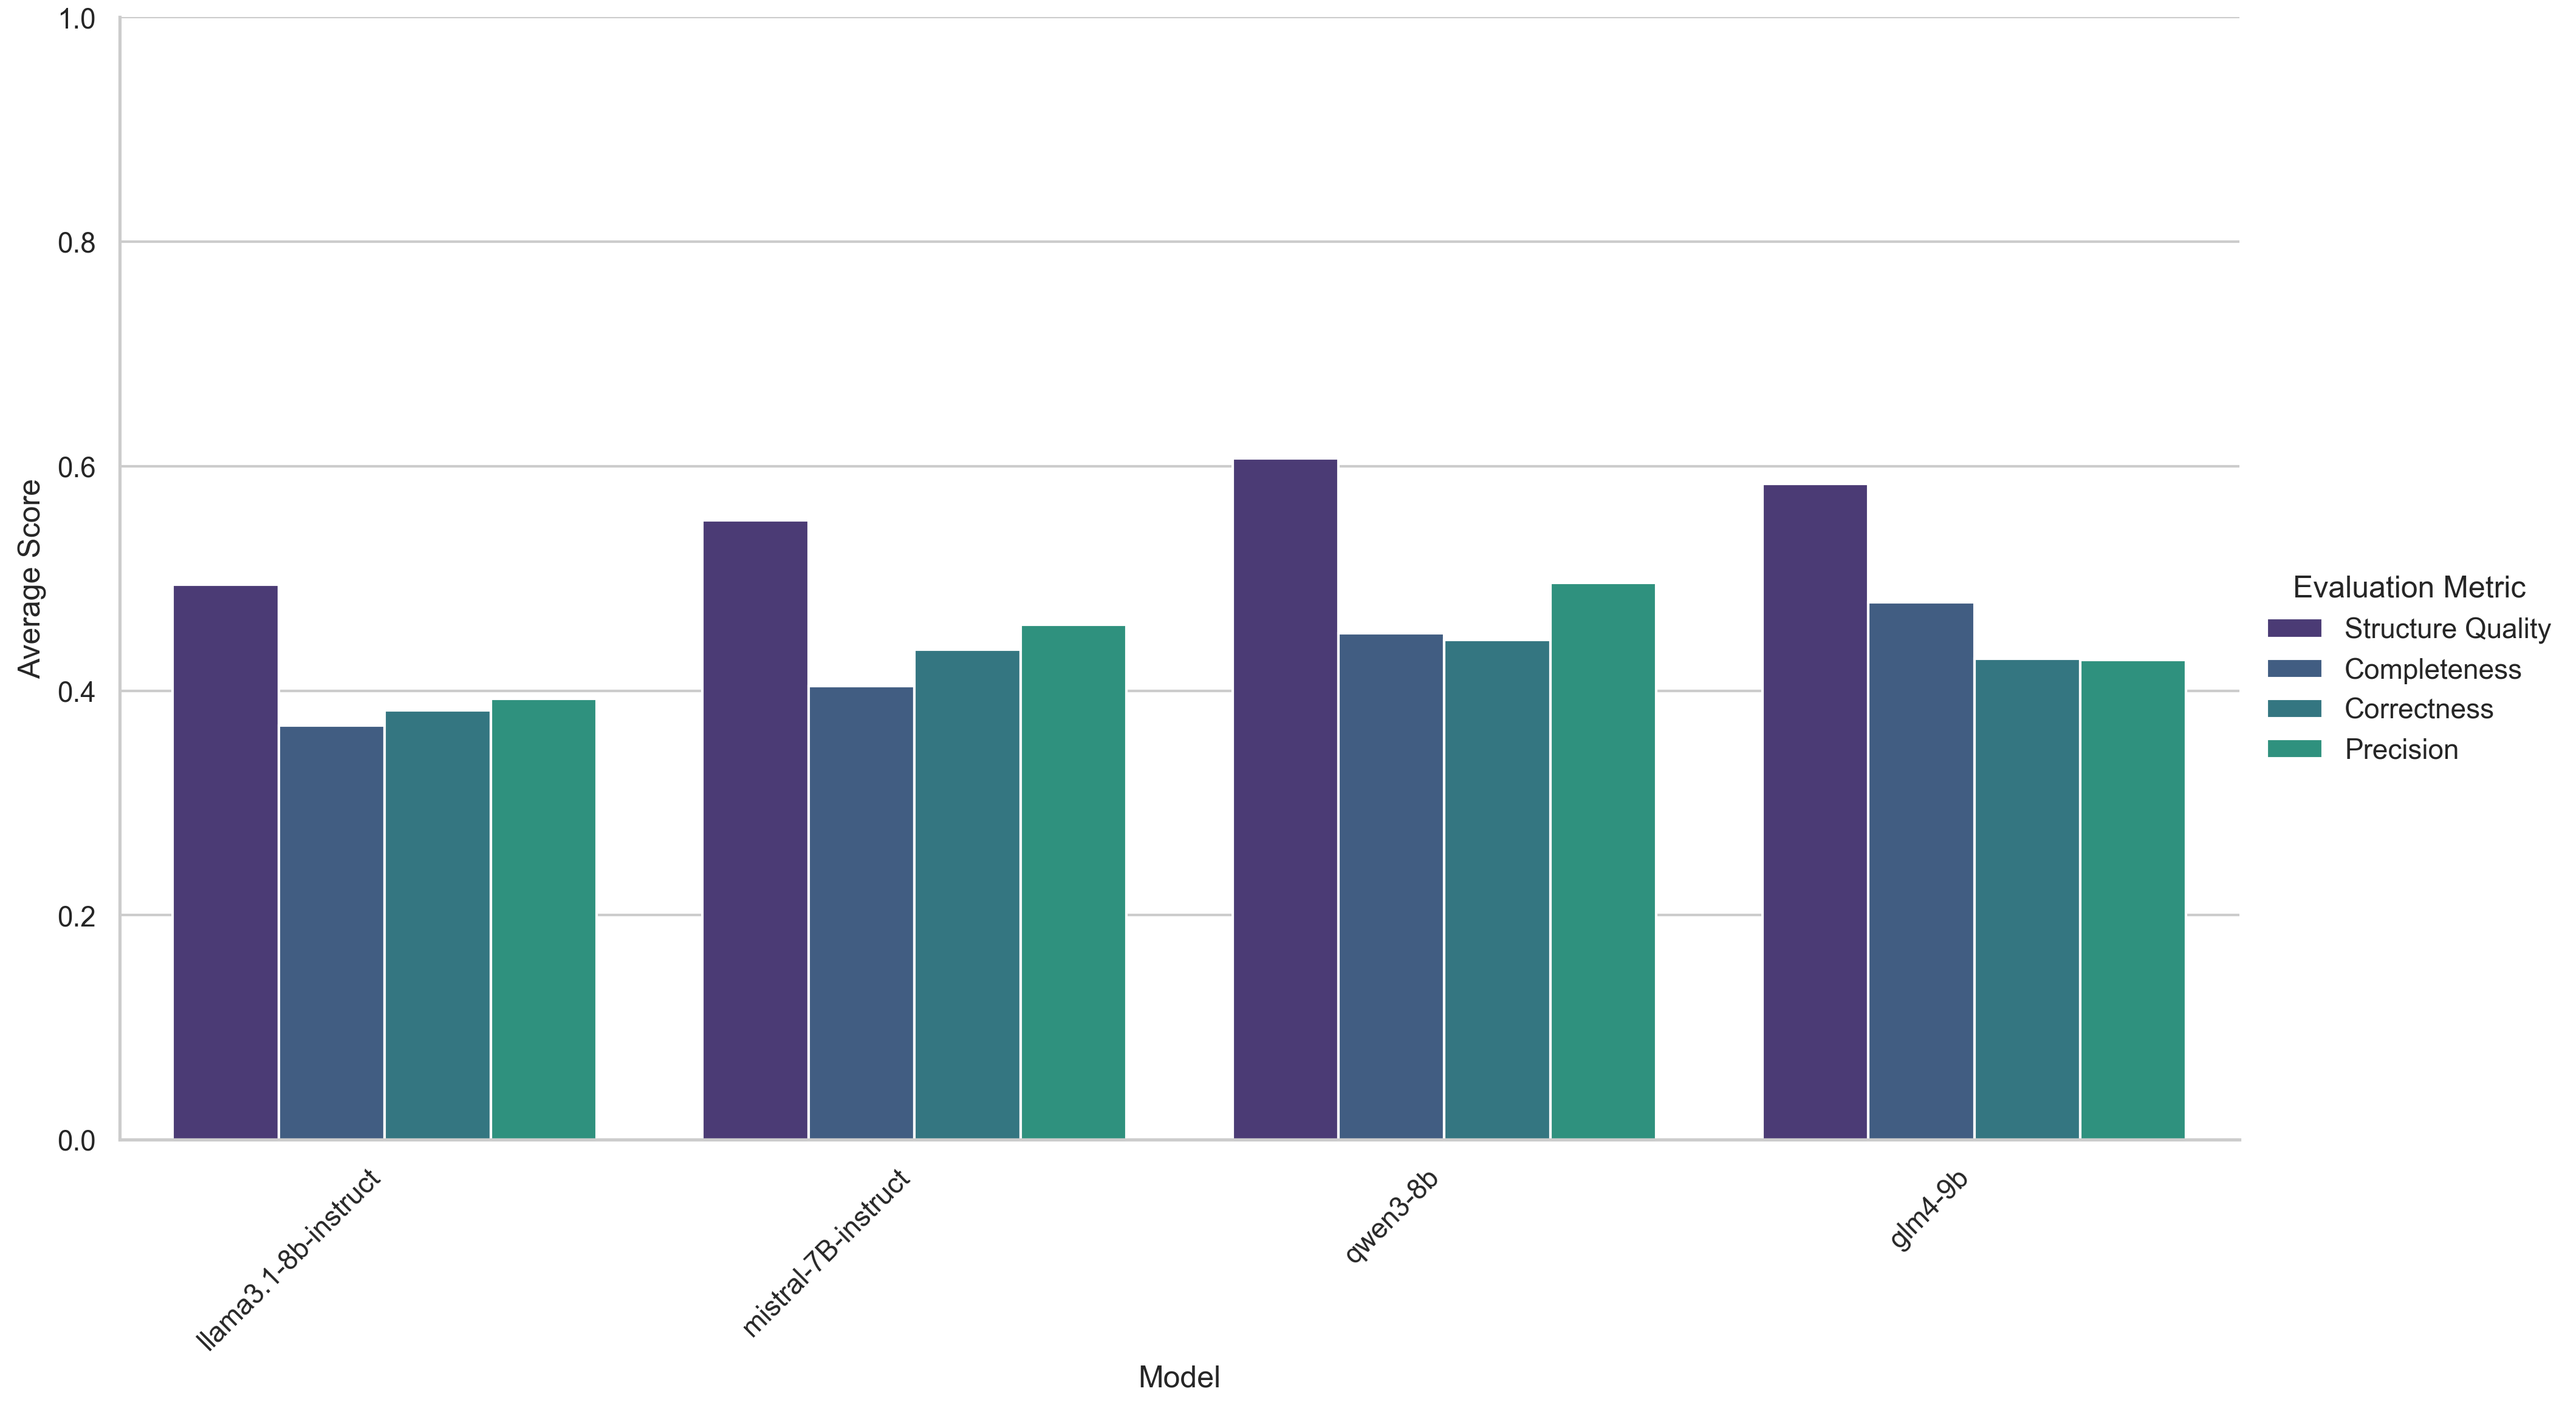
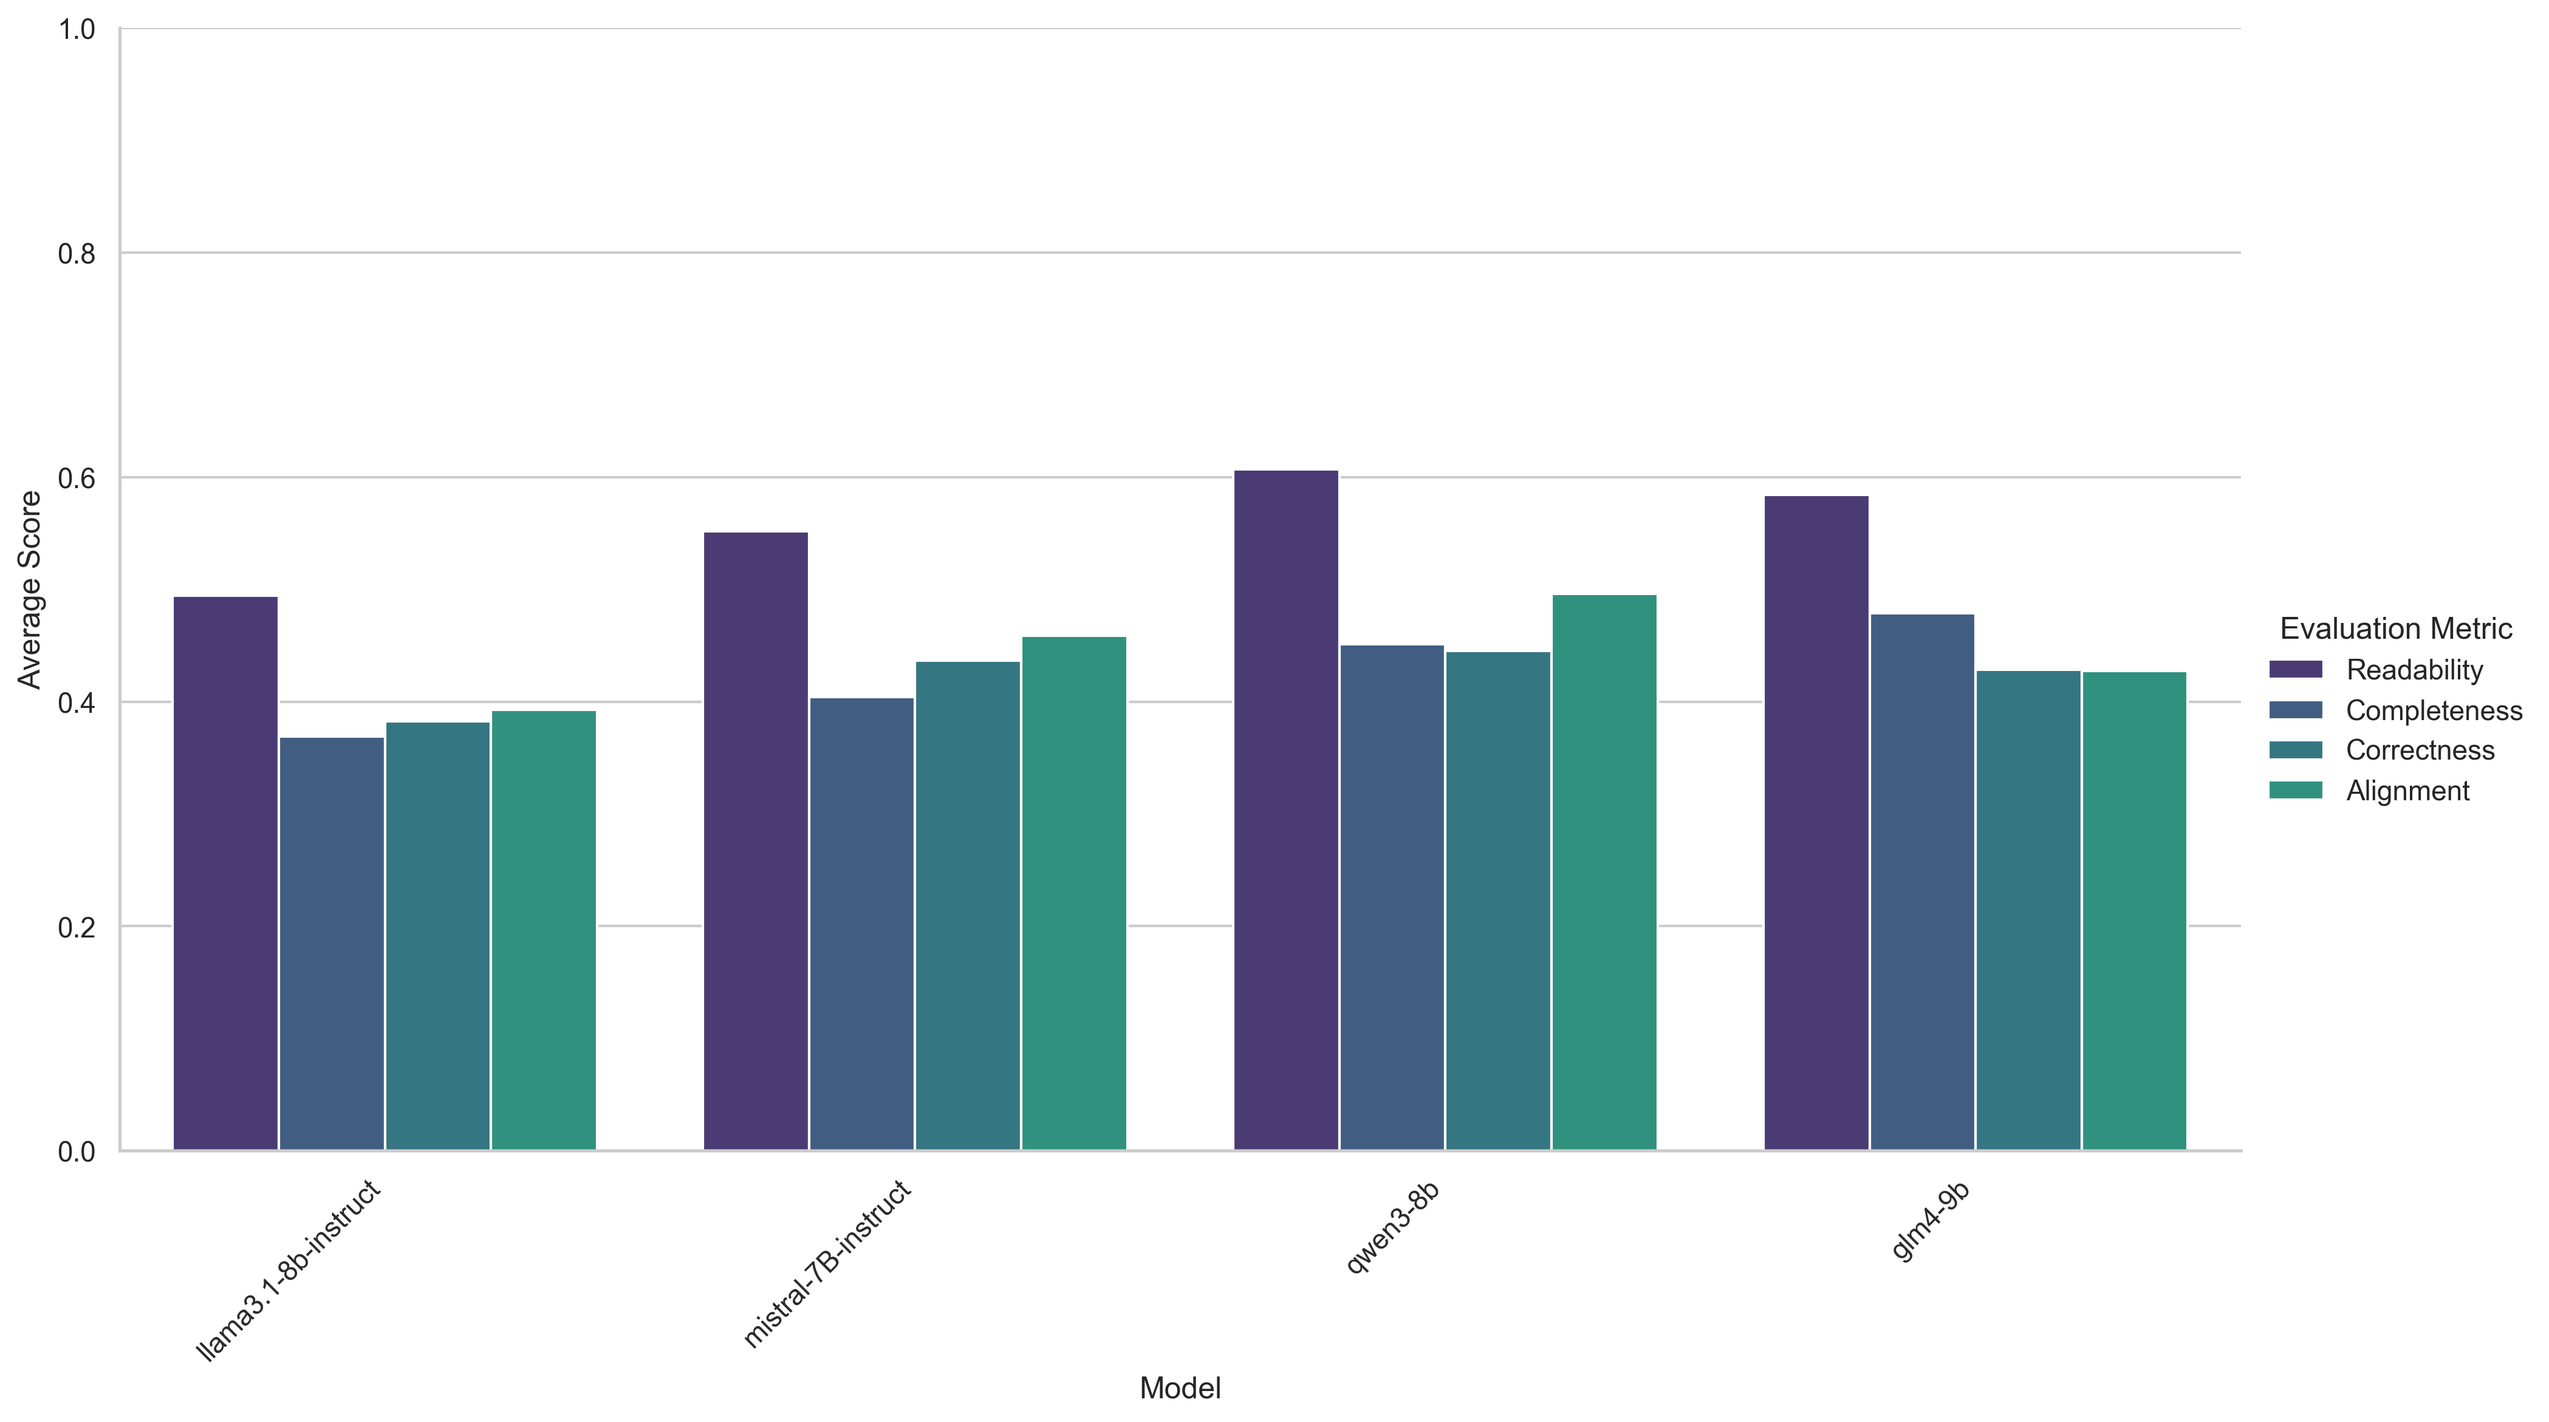
Add evaluation

diff --git a/conception.tex b/conception.tex
@@ -64,21 +64,19 @@ To address this challenge, this thesis adopts an automated and dynamic evaluatio
 ``G-EVAL is a prompt-based evaluator with three main components: 1) a prompt that contains the definition of the evaluation task and the desired evaluation criteria, 2) a chain-of-thoughts (CoT) that is a set of intermediate instructions generated by the LLM describing the detailed evaluation steps, and
 3) a scoring function that calls LLM and calculates the score based on the probabilities of the return tokens.'' \cite{G-eval}
 
-\subsubsection{Metrics}
+\subsubsection{Metrics} \label{metrics}
 The LLM-as-a-judge evaluation was guided by four key metrics, adapted from the framework proposed by \cite{evaluation-mertric}. Each metric was specifically interpreted for the task of requirements extraction as follows:
 \begin{description}
-\item[Correctness] `` This metric evaluates the accuracy of information presented in the target note. It identifies and penalizes hallucinations, misinterpretations, incorrect facts, and other inaccuracies in the target note.'' \cite{evaluation-mertric}.
- \textbf{In the context of this thesis, this messeaure is used to evaluate whether the extracted job requirements are accurate and actually present in the input text.}
+\item[Correctness] \hfil \\ ``This metric evaluates the accuracy of information presented in the target note. It identifies and penalizes hallucinations, misinterpretations, incorrect facts, and other inaccuracies in the target note.'' \cite{evaluation-mertric}. In the context of this thesis, this messeaure is used to evaluate whether the extracted job requirements are accurate and actually present in the input text.
 
-\item[Completeness] ``This aspect measures the extent to which relevant information from the ground truth note is covered in the target note.'' \cite{evaluation-mertric}.
- \textbf{For our purposes this metric is used to evaluate whether all mandatory job requirements from the input text were extracted. }
+\item[Completeness] \hfil \\ ``This aspect measures the extent to which relevant information from the ground truth note is covered in the target note.'' \cite{evaluation-mertric}.
+For our purposes this metric is used to evaluate whether all mandatory job requirements from the input text were extracted.
 
-\item[Alignment] This criterion assesses how well the information in the target note aligns with that in the ground truth note \cite{evaluation-mertric}.\textbf{Applied to this task, alignment evaluate whether the model correctly avoided extracting 'nice-to-have', 'preferred', or 'bonus' requirements.}
+\item[Alignment] \hfil \\``This criterion assesses how well the information in the target note aligns with that in the ground truth note'' \cite{evaluation-mertric}.Applied to this task, alignment evaluate whether the model correctly avoided extracting 'nice-to-have', 'preferred', or 'bonus' requirements.
 
-\item[Readability] This metric grades the target note on professional writing quality. It is penalized by awkward sentence flow, grammatical errors, inappropriate language, and spelling mistakes \cite{evaluation-mertric}
-\textbf{Here, this metric is adapted to assess whether the extracted requirements are properly categorized as given into skills, experiences, and qualifications, and whether the output is well-structured e.g does have any syntax error, which is handled in the code and will be explained deeper in implementation section.}
+\item[Readability] \hfil \\``This metric grades the target note on professional writing quality. It is penalized by awkward sentence flow, grammatical errors, inappropriate language, and spelling mistakes '' \cite{evaluation-mertric}
+Here, this metric is adapted to assess whether the extracted requirements are properly categorized as given into skills, experiences, and qualifications, and whether the output is well-structured e.g does have any syntax error, which is handled in the code and will be explained deeper in implementation section.
 \end{description}
-
 
 \section{Embedding and Similarity Search}
 Subsequent to the extraction and structuring of job requirements,the system proceeds to the second stage, which addresses the objective of dynamic job matching. To accomplish this, the structured job data and user query are encoded into vector representations. Based on the findings of Kurek et al.\cite{kurek2024},the all-MiniLM-L6-v2 \cite{sentence-bert} sentence transformer model was selected for this task due to its strong zero-shot retrieval performance in job matching. This process is designed to identify the top 10 most relevant job vacancies based on semantic similarity, thereby providing a more accurate matching system than title-based filtering.

diff --git a/evaluation.tex b/evaluation.tex
@@ -1,6 +1,9 @@
 \chapter{Evaluation}
 
-% Example figure placeholder for evaluation results
+\section{Model Performance Comparison}
+
+In this section, we evaluate the performance of the different models based on three key metrics: overall model ranking, passed rates, and average scores. The following figures illustrate the comparative performance of the models in each of these areas.
+
 \begin{figure}[h]
     \centering
     \includegraphics[width=0.8\textwidth]{images/overall_model_ranking}
@@ -8,12 +11,8 @@
     \label{fig:overall_model_ranking}
 \end{figure}
 
-\begin{figure}[h]
-    \centering
-    \includegraphics[width=0.8\textwidth]{images/passed_rates_comparison}
-    \caption{Passed rates comparison}
-    \label{fig:passed_rates_comparison}
-\end{figure}
+Figure \ref{fig:overall_model_ranking} presents the overall ranking of the models. This ranking is a overal score derived from multiple metrics as discussed before see \Ref{metrics}. As can be seen, Qwen3-8B achieves the highest rank, followed by Model GLM4-9B. This suggests that, in aggregate, Qwen3-8B Model demonstrates superior performance across the evaluated criteria.
+
 
 \begin{figure}[h]
     \centering
@@ -22,4 +21,18 @@
     \label{fig:average_scores_comparison}
 \end{figure}
 
+Figure \ref{fig:average_scores_comparison} shows comparision of  the average scores obtained by each model in all metrics. The score is a measure of the quality of the model's output, with higher scores indicating better performance. The results in this figure are consistent with the previous metrics, showing Model Qwen3-8B with the highest average score. This further supports the conclusion that Model Qwen3-8B is the most effective model in this evaluation. Its important to note that Qwen3-8B has better percentage in Allignment category than GLM4-9B but lower percentage in Completeness, which means that Qwen3-8B identifies ``Must-have'' requirements better but hillucinates more compare to GLM4-9B.
 
+\begin{figure}[h]
+    \centering
+    \includegraphics[width=0.8\textwidth]{images/passed_rates_comparison}
+    \caption{Passed rates comparison}
+    \label{fig:passed_rates_comparison}
+\end{figure}
+
+Figure \ref{fig:passed_rates_comparison} shows a comparison of the passed rates for each model in all metrics. G-Eval has the option to define a success rate which was set to 0.7 for all metrics, based on that the passed rate is defined as the percentage of test cases that the model successfully completes. The chart indicates that Model Qwen3-8B has the highest passed rate, reinforcing its strong performance. Models GLM4-9B and mistral-7B-instruct show have near the same percentage.
+
+
+\section{Summary of Evaluation}
+
+\section{Outlook}
